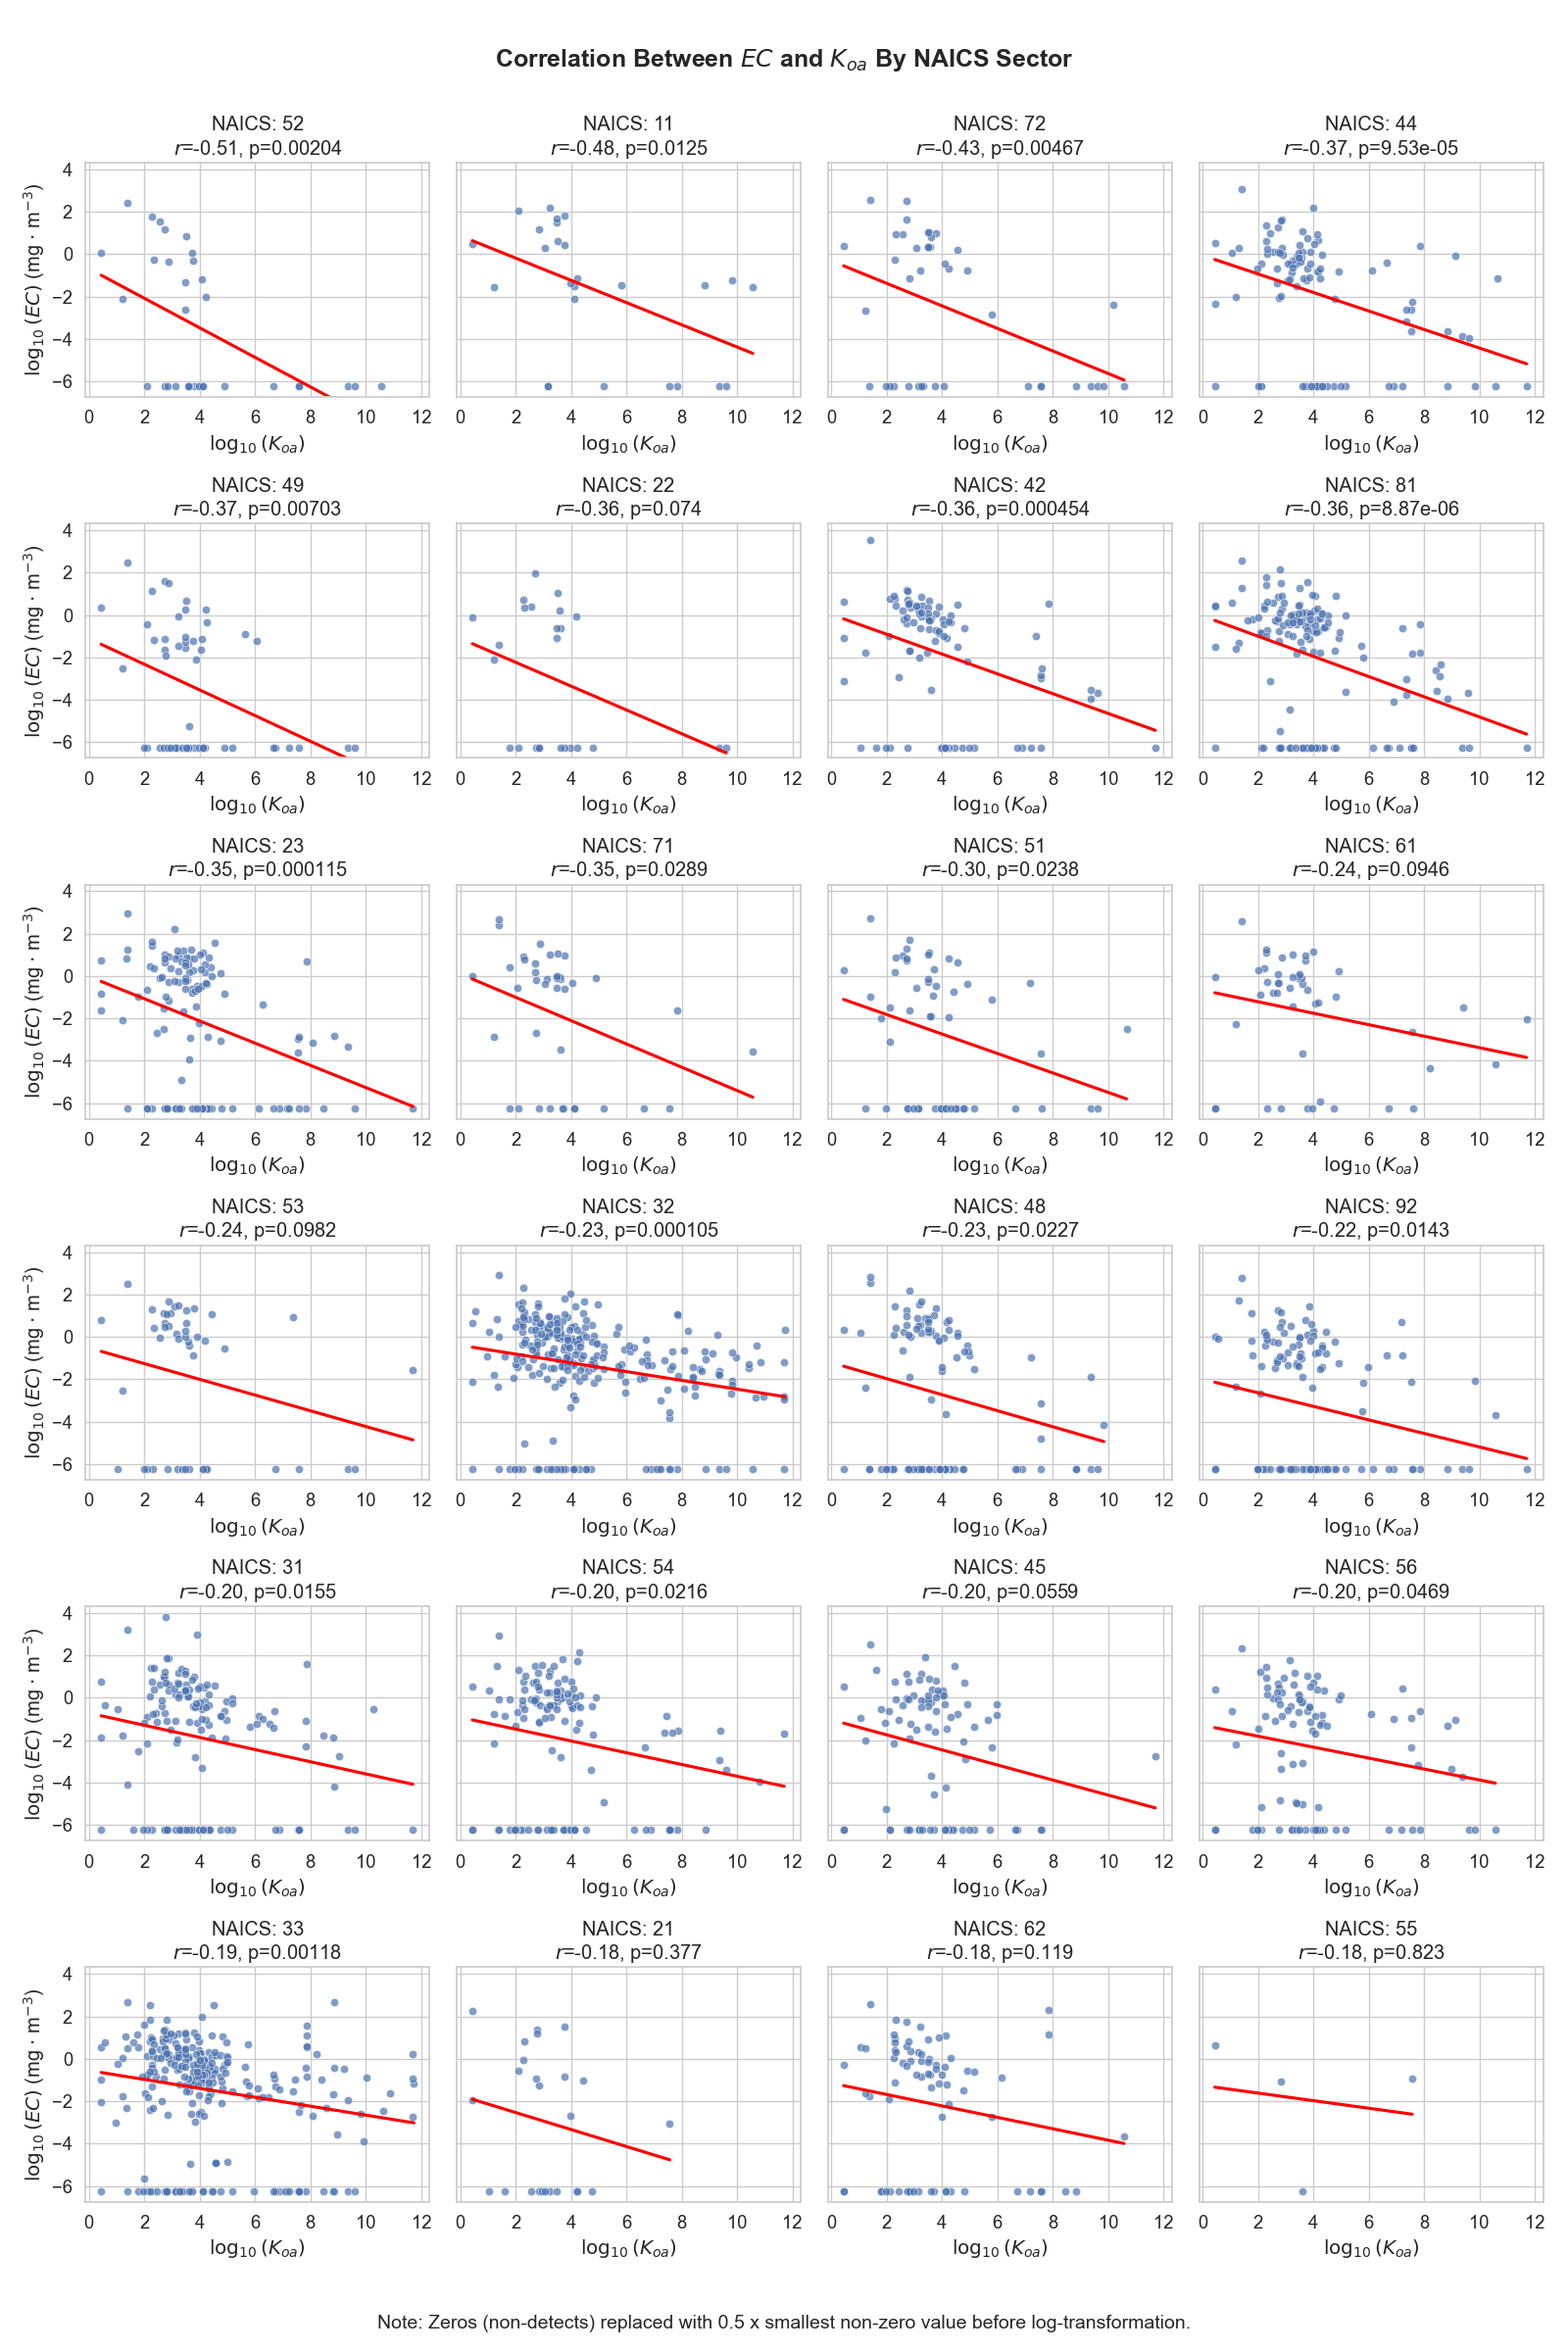
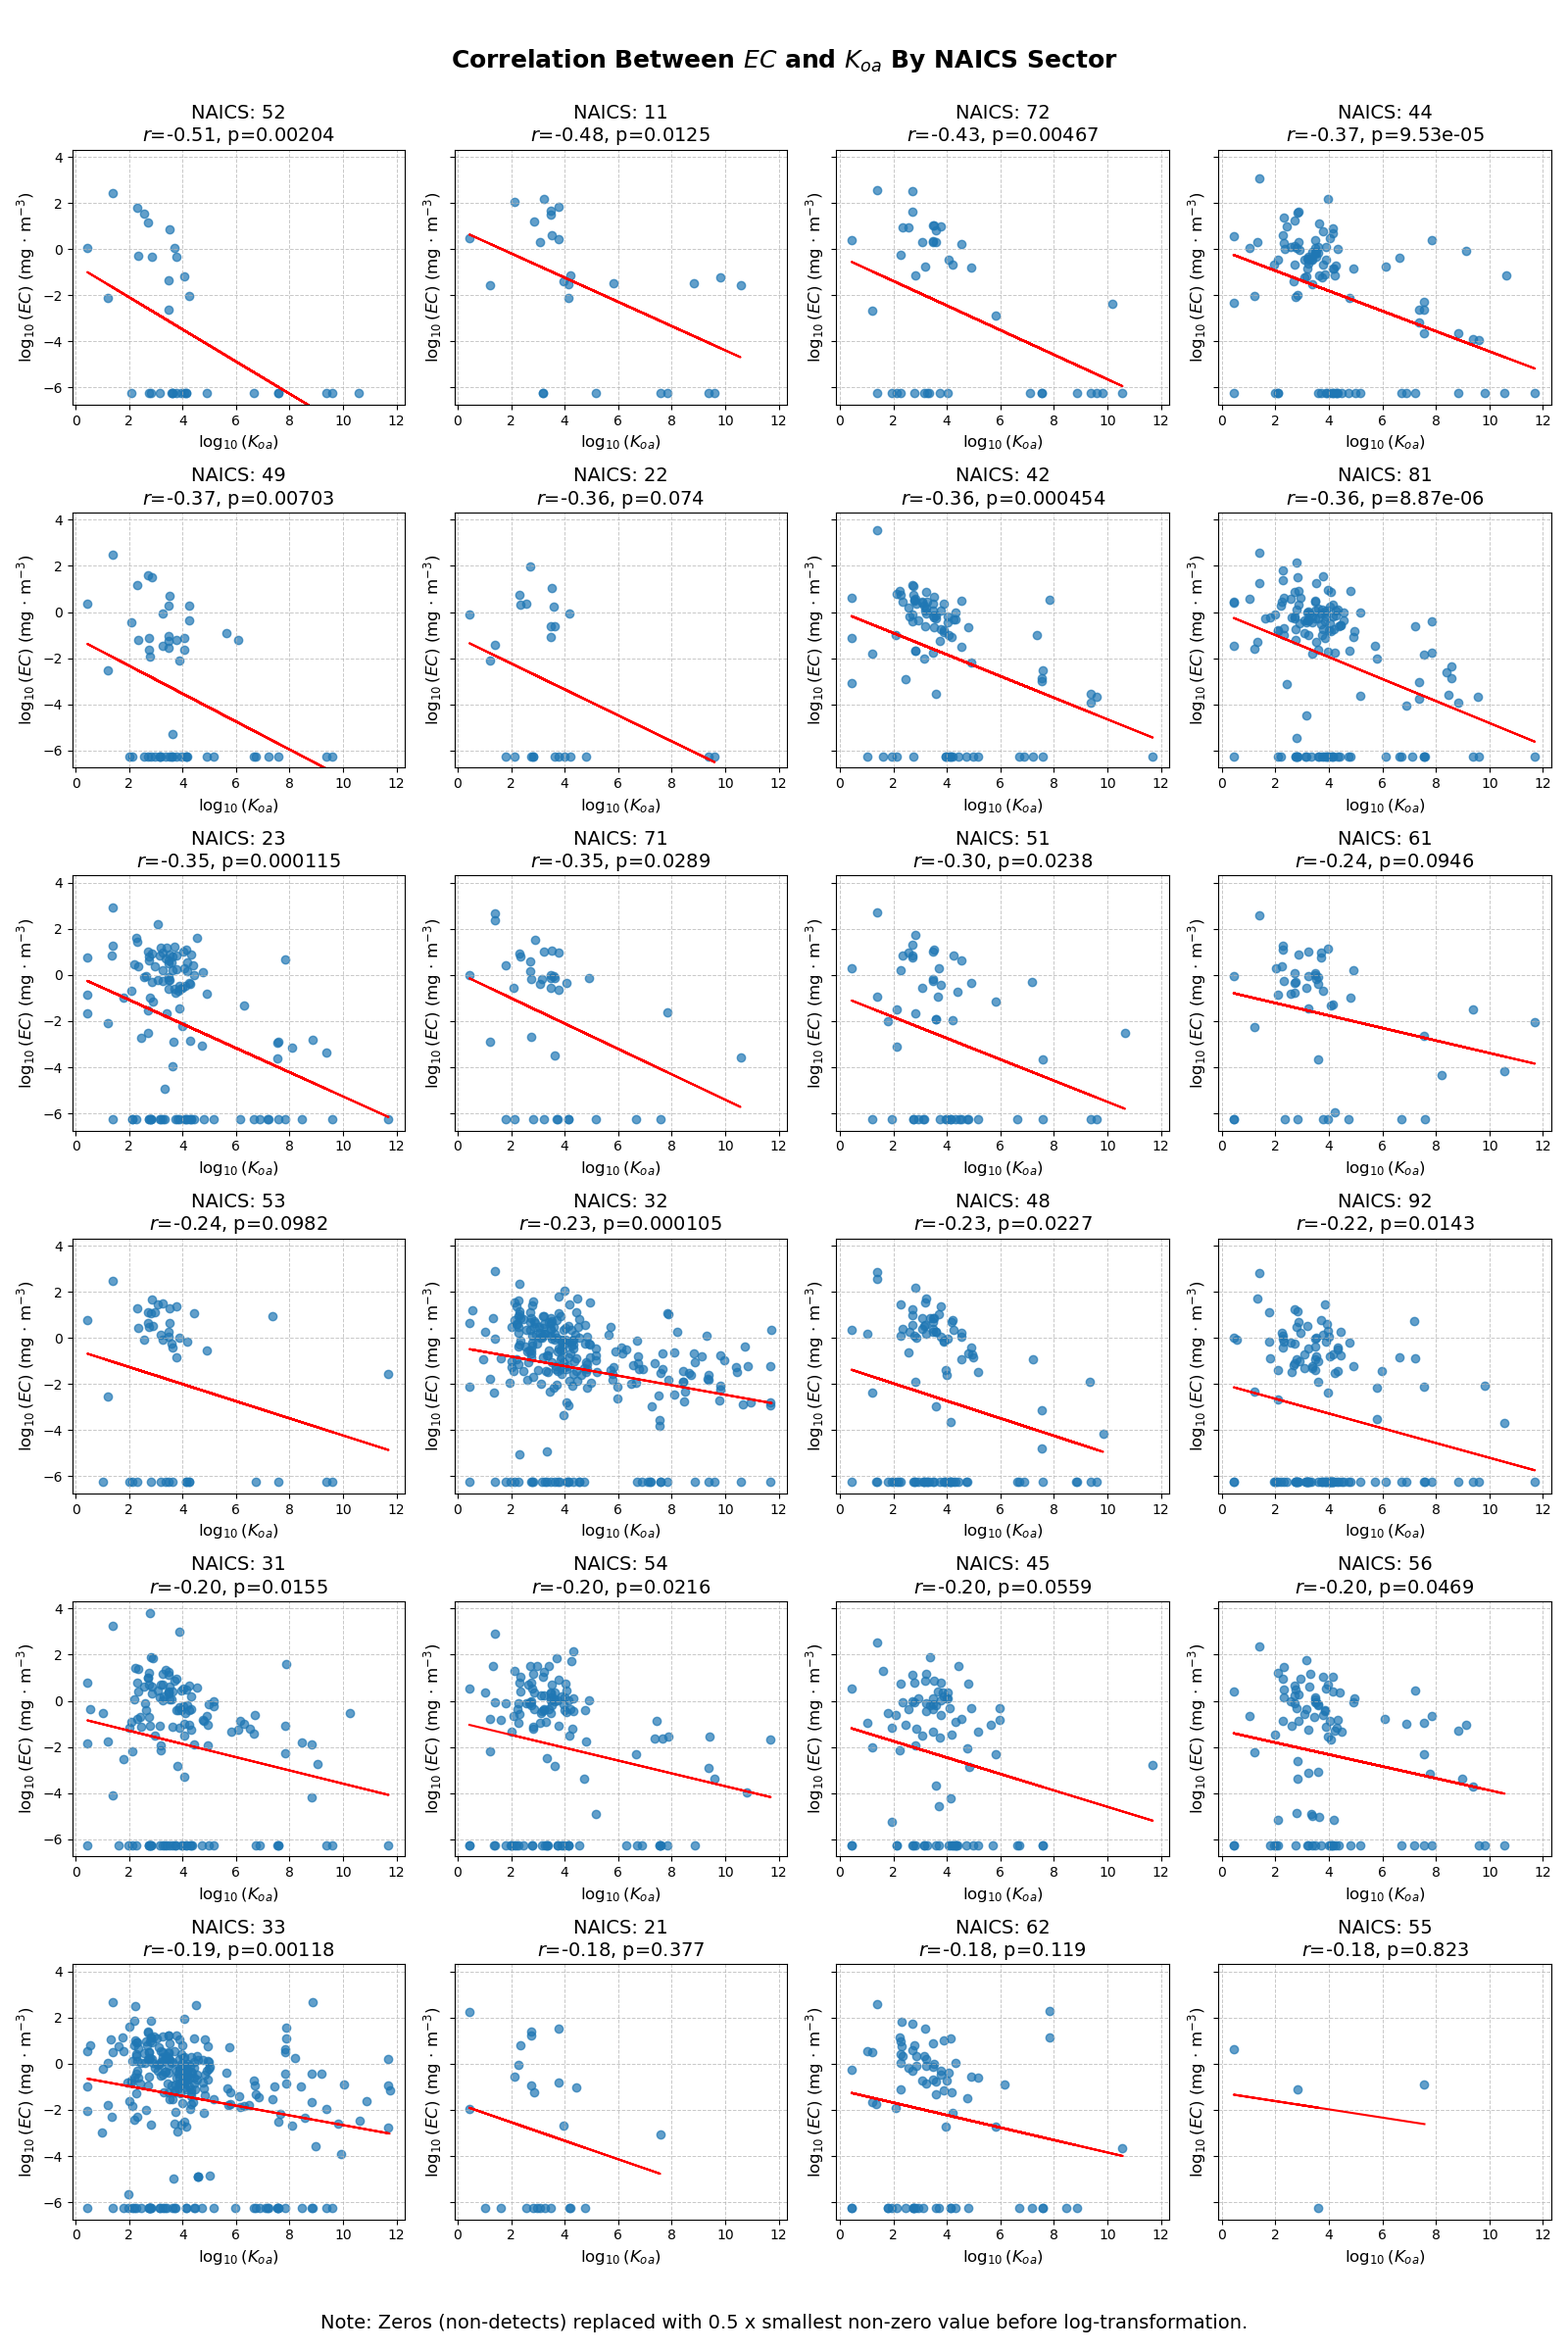
Refactor plot.correlation_by_naics: Use plt instead of seaborn

diff --git a/plot.py b/plot.py
@@ -390,6 +390,7 @@ def correlation_by_naics(
         predictor, 
         xlabel=None, 
         ylabel=None,
+        suptitle=None,
         write_path=None):
     '''
     Creates multi-panel scatterplots with correlation coefficient for each 
@@ -410,8 +411,6 @@ def correlation_by_naics(
     naics_column = merged['naics_id']
     merged = merged.dropna(subset=['predictor', 'target'])
 
-    # Get unique NAICS codes
-    sns.set(style='whitegrid', font_scale=1.2)
     unique_naics = sorted(naics_column.unique())
 
     # Calculate correlations for each sector
@@ -458,31 +457,31 @@ def correlation_by_naics(
         subset = merged[merged['naics_id'] == naics]
 
         # Scatterplot with regression line
-        sns.scatterplot(
-            x='predictor', 
-            y='target', 
-            data=subset, 
-            ax=ax, 
+        ax.scatter(subset['predictor'], subset['target'], alpha=0.7)
+        ax.plot(
+            subset['predictor'], 
+            np.polyval(
+                np.polyfit(subset['predictor'], subset['target'], 1), 
+                subset['predictor']), 
+            color='red'
+        )
+
+        ax.grid(
+            visible=True, 
+            which='major', 
+            linestyle='--', 
+            linewidth=0.7, 
             alpha=0.7
-        )
-        sns.regplot(
-            x='predictor', 
-            y='target', 
-            data=subset, 
-            scatter=False, 
-            color='red', 
-            ci=None, 
-            ax=ax
-        )
+            )
 
         # Get correlation stats for the title
         r = corr_df.loc[corr_df['naics'] == naics, 'r'].values[0]
         p = corr_df.loc[corr_df['naics'] == naics, 'p'].values[0]
 
         # Title with stats
-        ax.set_title(f'NAICS: {naics}\n$r$={r:.2f}, p={p:.3g}')
-        ax.set_xlabel(xlabel)
-        ax.set_ylabel(ylabel)
+        ax.set_title(f'NAICS: {naics}\n$r$={r:.2f}, p={p:.3g}', fontsize=14)
+        ax.set_xlabel(xlabel, fontsize=12)
+        ax.set_ylabel(ylabel, fontsize=12)
 
         ax.set_xlim(x_min - x_pad, x_max + x_pad)
         ax.set_ylim(y_min - y_pad, y_max + y_pad)
@@ -495,7 +494,7 @@ def correlation_by_naics(
 
     # Add suptitle and note
     fig.suptitle(
-        'Correlation Between $\mathit{EC}$ and $K_{oa}$ By NAICS Sector', 
+        suptitle, 
         fontsize=18,
         fontweight='bold')
     plt.figtext(0.5, 0.01, NOTE, ha='center', fontsize=14)
